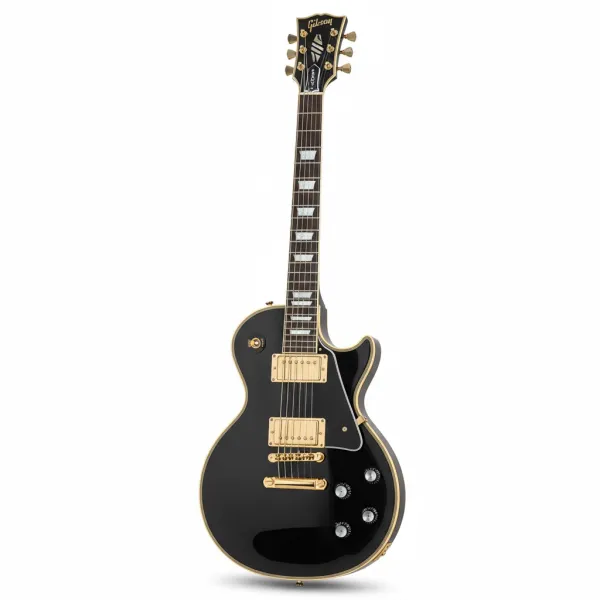
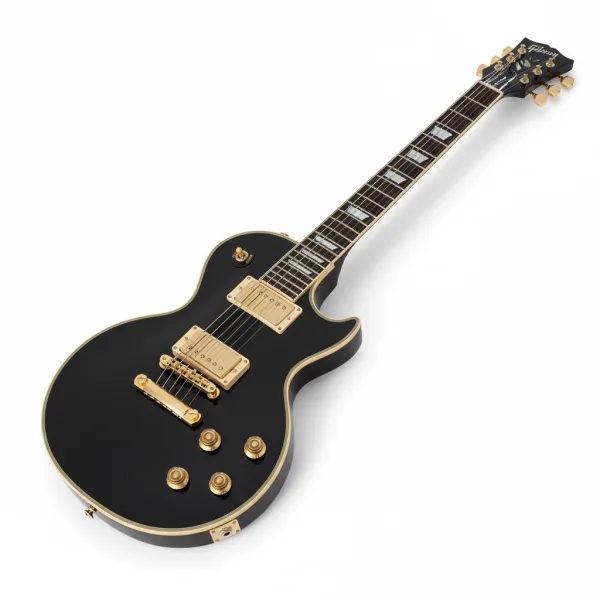
fix: ギター画像向き統一(右上ヘッド) + デザイン全面プレミアム化
画像:
- 全6枚を右上ヘッド・白背景・同一角度で再生成

デザイン:
- セクション区切りグラデーションライン追加
- 価格カード: hover時トップバーライン、角丸1.25rem、影強化
- 査定理由: border-top区切り、フォントサイズUP
- 知識ブロック: 角丸追加、shadow追加
- コンディションカード: hover浮き上がり、shadow
- バッジ: グラデーション背景、shadow
- Tip番号: 丸角ボックス＋グラデーション
- フローステップ: hover効果追加
- 相場テーブル: 白背景カード化、角丸、border

diff --git a/electric-guitar/index.html b/electric-guitar/index.html
@@ -103,7 +103,7 @@ ul,ol{list-style:none}
 .btn-sub{font-size:0.7em;opacity:0.75;font-weight:500;margin-left:0.375rem}
 .hero-note{color:rgba(255,255,255,0.45);font-size:0.7rem;margin-top:0.75rem;text-align:center}
 /* Sections */
-.section{padding:3.5rem 0;position:relative}
+.section{padding:3.5rem 0;position:relative}.section::before{content:"";display:block;width:60px;height:3px;margin:0 auto;background:linear-gradient(90deg,transparent,var(--color-terra),transparent);position:absolute;top:0;left:50%;transform:translateX(-50%);border-radius:2px}.section-dark::before{background:linear-gradient(90deg,transparent,var(--color-amber),transparent)}
 @media(min-width:768px){.section{padding:4.5rem 0}}
 .section-dark{background:var(--color-dark);color:#fff}
 .section-cream{background:var(--color-bg-cream)}
@@ -118,15 +118,15 @@ ul,ol{list-style:none}
 /* Price Cards */
 .price-grid{display:grid;grid-template-columns:repeat(2,1fr);gap:1rem}
 @media(min-width:768px){.price-grid{grid-template-columns:repeat(3,1fr);gap:1.25rem}}
-.price-card{background:#fff;border:1px solid var(--color-border);border-radius:1rem;overflow:hidden;transition:transform 0.3s,box-shadow 0.3s}
-.price-card:hover{transform:translateY(-4px);box-shadow:0 12px 40px rgba(0,0,0,0.1)}
+.price-card{background:#fff;border:1px solid var(--color-border);border-radius:1.25rem;overflow:hidden;transition:transform 0.4s cubic-bezier(0.22,1,0.36,1),box-shadow 0.4s;position:relative}
+.price-card:hover{transform:translateY(-6px);box-shadow:0 16px 48px rgba(0,0,0,0.12)}.price-card::after{content:"";position:absolute;top:0;left:0;right:0;height:3px;background:linear-gradient(90deg,var(--color-terra),var(--color-amber));opacity:0;transition:opacity 0.3s}.price-card:hover::after{opacity:1}
 .price-card-img{width:100%;aspect-ratio:1;object-fit:cover;background:#fafafa;border-bottom:1px solid var(--color-border)}
 .price-card-body{padding:0.75rem}
 @media(min-width:768px){.price-card-body{padding:1rem}}
 .price-card-category{font-size:0.65rem;font-weight:700;color:var(--color-text-lighter);letter-spacing:0.05em}
 .price-card-name{font-size:0.75rem;font-weight:700;color:var(--color-text);line-height:1.4;margin:0.25rem 0 0.25rem}
 .price-card-price{font-weight:900;font-size:1.1rem;line-height:1;background:linear-gradient(135deg,var(--color-terra),var(--color-amber));-webkit-background-clip:text;background-clip:text;-webkit-text-fill-color:transparent}
-.price-card-reason{font-size:0.65rem;color:var(--color-text-lighter);margin-top:0.375rem;line-height:1.5}
+.price-card-reason{font-size:0.7rem;color:var(--color-text-light);margin-top:0.5rem;line-height:1.6;border-top:1px solid var(--color-border);padding-top:0.5rem}
 /* Brands */
 .brands-featured{display:grid;grid-template-columns:repeat(3,1fr);gap:0.75rem;max-width:48rem;margin:0 auto}
 @media(min-width:768px){.brands-featured{grid-template-columns:repeat(6,1fr);gap:1rem}}
@@ -143,27 +143,27 @@ ul,ol{list-style:none}
 .market-table td{padding:0.625rem 0.75rem;border-bottom:1px solid var(--color-border);font-size:0.8rem}
 .market-table td:nth-child(2),.market-table td:nth-child(3){color:var(--color-terra);font-weight:700;white-space:nowrap}
 .market-table tr:nth-child(even){background:var(--color-bg-gray)}
-.market-table-wrap{overflow-x:auto;max-width:52rem;margin:0 auto}
+.market-table-wrap{overflow-x:auto;max-width:52rem;margin:0 auto;background:#fff;border-radius:1.25rem;padding:2rem;border:1px solid var(--color-border);box-shadow:0 2px 8px rgba(0,0,0,0.04)}
 /* Tips */
 .tips-list{max-width:48rem;margin:0 auto}
 .tip-item{margin-bottom:2rem}
-.tip-num{display:inline-block;font-weight:900;font-size:1.5rem;color:var(--color-terra);font-family:var(--font-mincho);margin-bottom:0.25rem;border-bottom:3px solid var(--color-terra);padding-bottom:0.125rem}
+.tip-num{display:inline-flex;align-items:center;justify-content:center;width:48px;height:48px;font-weight:900;font-size:1.2rem;color:#fff;background:linear-gradient(135deg,var(--color-terra),var(--color-amber));border-radius:0.75rem;margin-bottom:0.5rem;box-shadow:0 4px 12px rgba(212,90,42,0.25)}
 .tip-item h3{font-size:1.05rem;font-weight:900;margin-bottom:0.5rem}
 .tip-item p{font-size:0.875rem;color:var(--color-text-light);line-height:1.8}
 /* Knowledge */
-.knowledge-block{max-width:48rem;margin:0 auto 2rem;padding:1.5rem;background:var(--color-bg-cream);border-left:4px solid var(--color-amber)}
+.knowledge-block{max-width:48rem;margin:0 auto 2rem;padding:2rem;background:var(--color-bg-cream);border-left:4px solid var(--color-amber);border-radius:0 1rem 1rem 0;box-shadow:0 2px 8px rgba(0,0,0,0.04)}
 .knowledge-block h3{font-size:1.1rem;font-weight:900;margin-bottom:0.75rem;font-family:var(--font-mincho)}
 .knowledge-block p{font-size:0.875rem;color:var(--color-text-light);line-height:1.9}
 /* Condition OK */
 .condition-grid{display:grid;grid-template-columns:repeat(3,1fr);gap:1rem;max-width:36rem;margin:0 auto}
-.condition-item{text-align:center;padding:1.25rem 0.5rem;background:#fff;border:1px solid var(--color-border);border-radius:1rem}
+.condition-item{text-align:center;padding:1.5rem 0.75rem;background:#fff;border:1px solid var(--color-border);border-radius:1.25rem;box-shadow:0 2px 8px rgba(0,0,0,0.04);transition:transform 0.3s,box-shadow 0.3s}.condition-item:hover{transform:translateY(-3px);box-shadow:0 8px 24px rgba(0,0,0,0.08)}
 .condition-icon{font-size:2rem;margin-bottom:0.5rem}
 .condition-label{font-size:0.8rem;font-weight:700;color:var(--color-text)}
-.condition-badge{display:inline-block;background:var(--color-terra);color:#fff;font-size:0.6rem;font-weight:900;padding:0.15rem 0.5rem;border-radius:9999px;margin-bottom:0.375rem}
+.condition-badge{display:inline-block;background:linear-gradient(135deg,var(--color-terra),var(--color-amber));color:#fff;font-size:0.65rem;font-weight:900;padding:0.25rem 0.75rem;border-radius:9999px;margin-bottom:0.5rem;box-shadow:0 2px 6px rgba(212,90,42,0.3)}
 /* Flow */
 .flow-steps{display:grid;grid-template-columns:1fr;gap:2rem;max-width:56rem;margin:0 auto}
 @media(min-width:768px){.flow-steps{grid-template-columns:repeat(3,1fr);gap:1.5rem}}
-.flow-step{text-align:center;background:var(--color-bg);border-radius:1.25rem;padding:2rem 1.25rem;border:1px solid var(--color-border)}
+.flow-step{text-align:center;background:var(--color-bg);border-radius:1.25rem;padding:2rem 1.25rem;border:1px solid var(--color-border);transition:all 0.4s cubic-bezier(0.22,1,0.36,1)}.flow-step:hover{transform:translateY(-4px);box-shadow:0 12px 36px rgba(0,0,0,0.06);border-color:rgba(212,90,42,0.3)}
 .flow-step-num{width:56px;height:56px;margin:0 auto 1.25rem;background:linear-gradient(135deg,var(--color-terra),var(--color-amber));color:#fff;border-radius:50%;display:flex;align-items:center;justify-content:center;font-weight:900;font-size:1.3rem;box-shadow:0 6px 20px rgba(212,90,42,0.3)}
 .flow-step h3{font-weight:900;font-size:1.05rem;margin-bottom:0.5rem}
 .flow-step p{color:var(--color-text-light);font-size:0.85rem;line-height:1.8}
